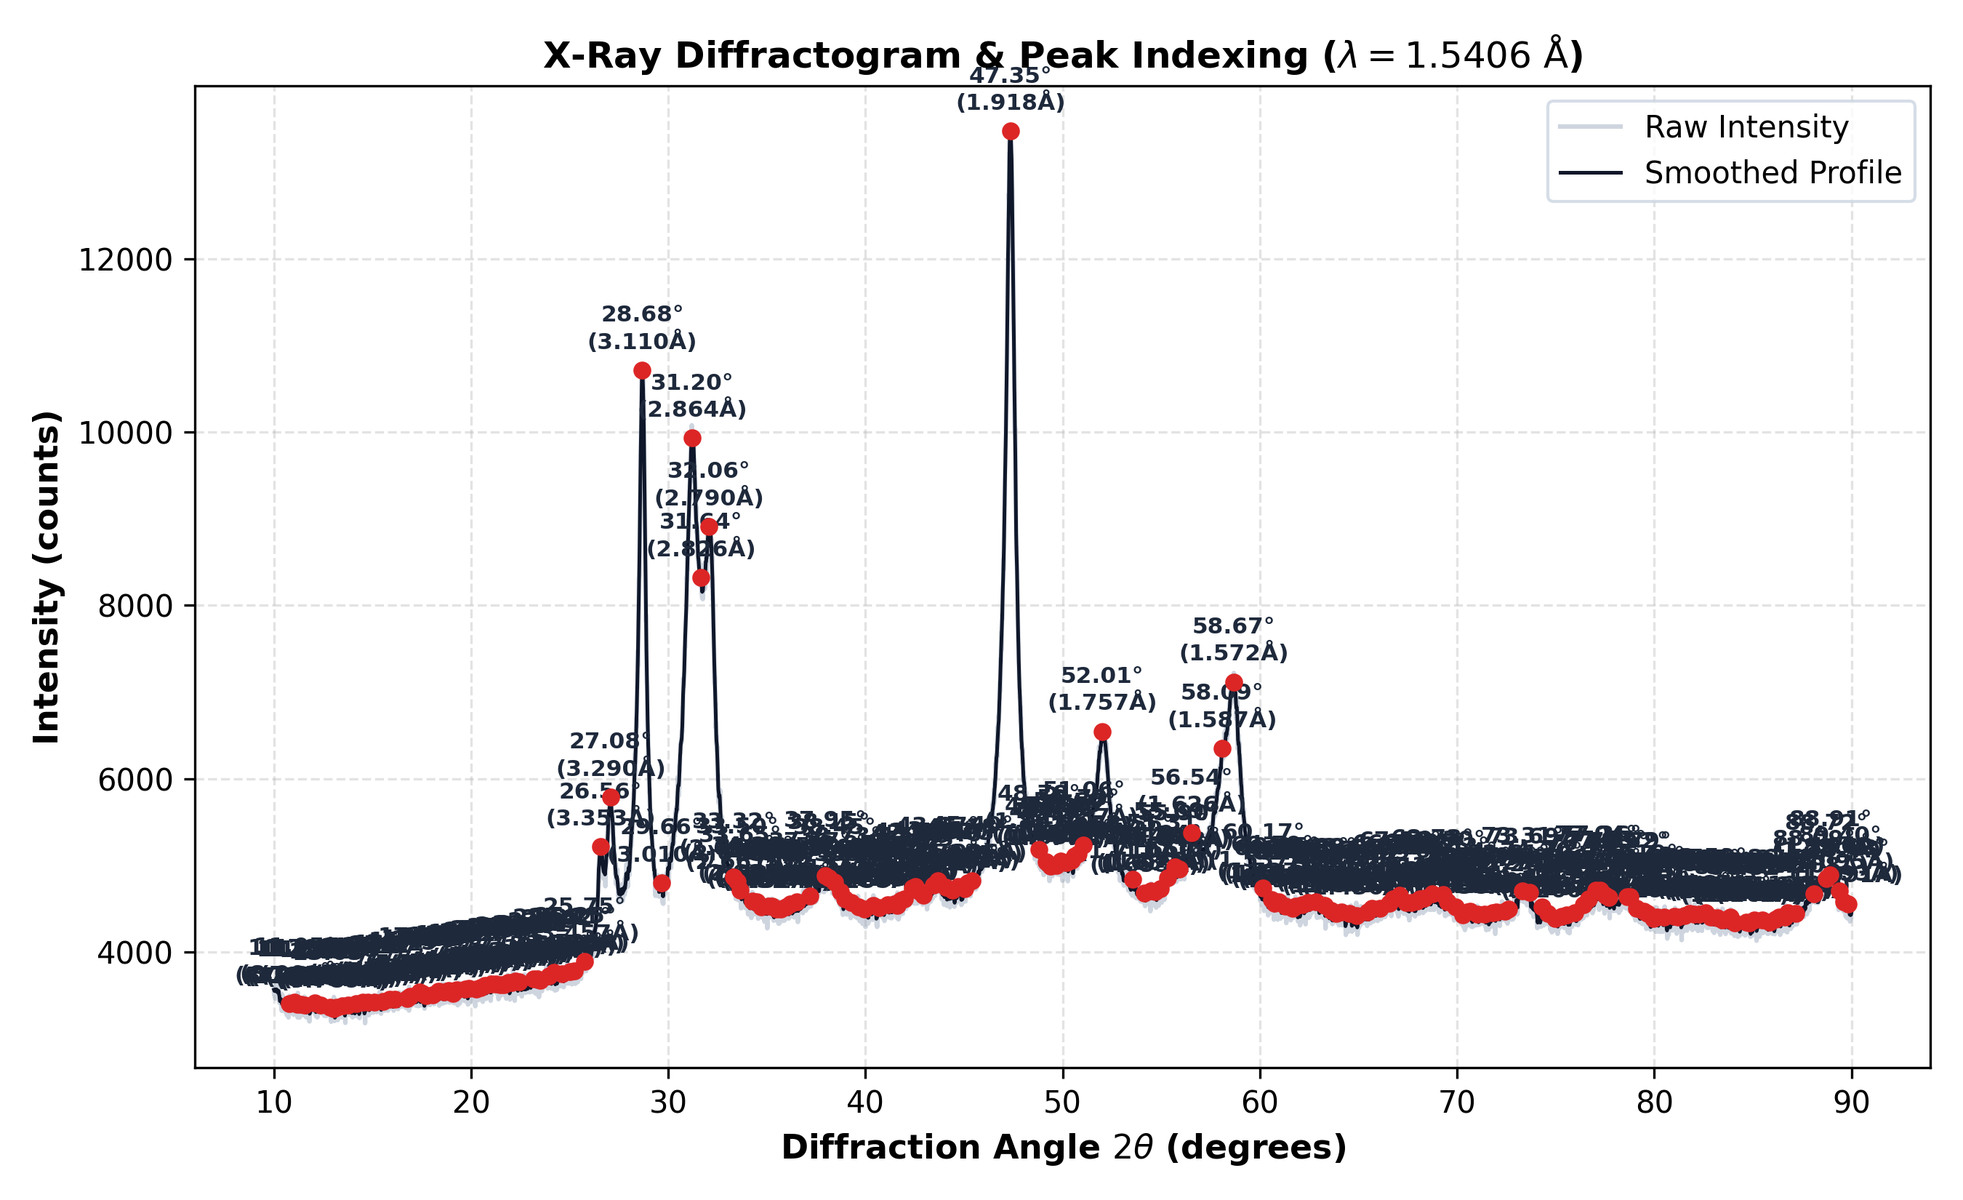
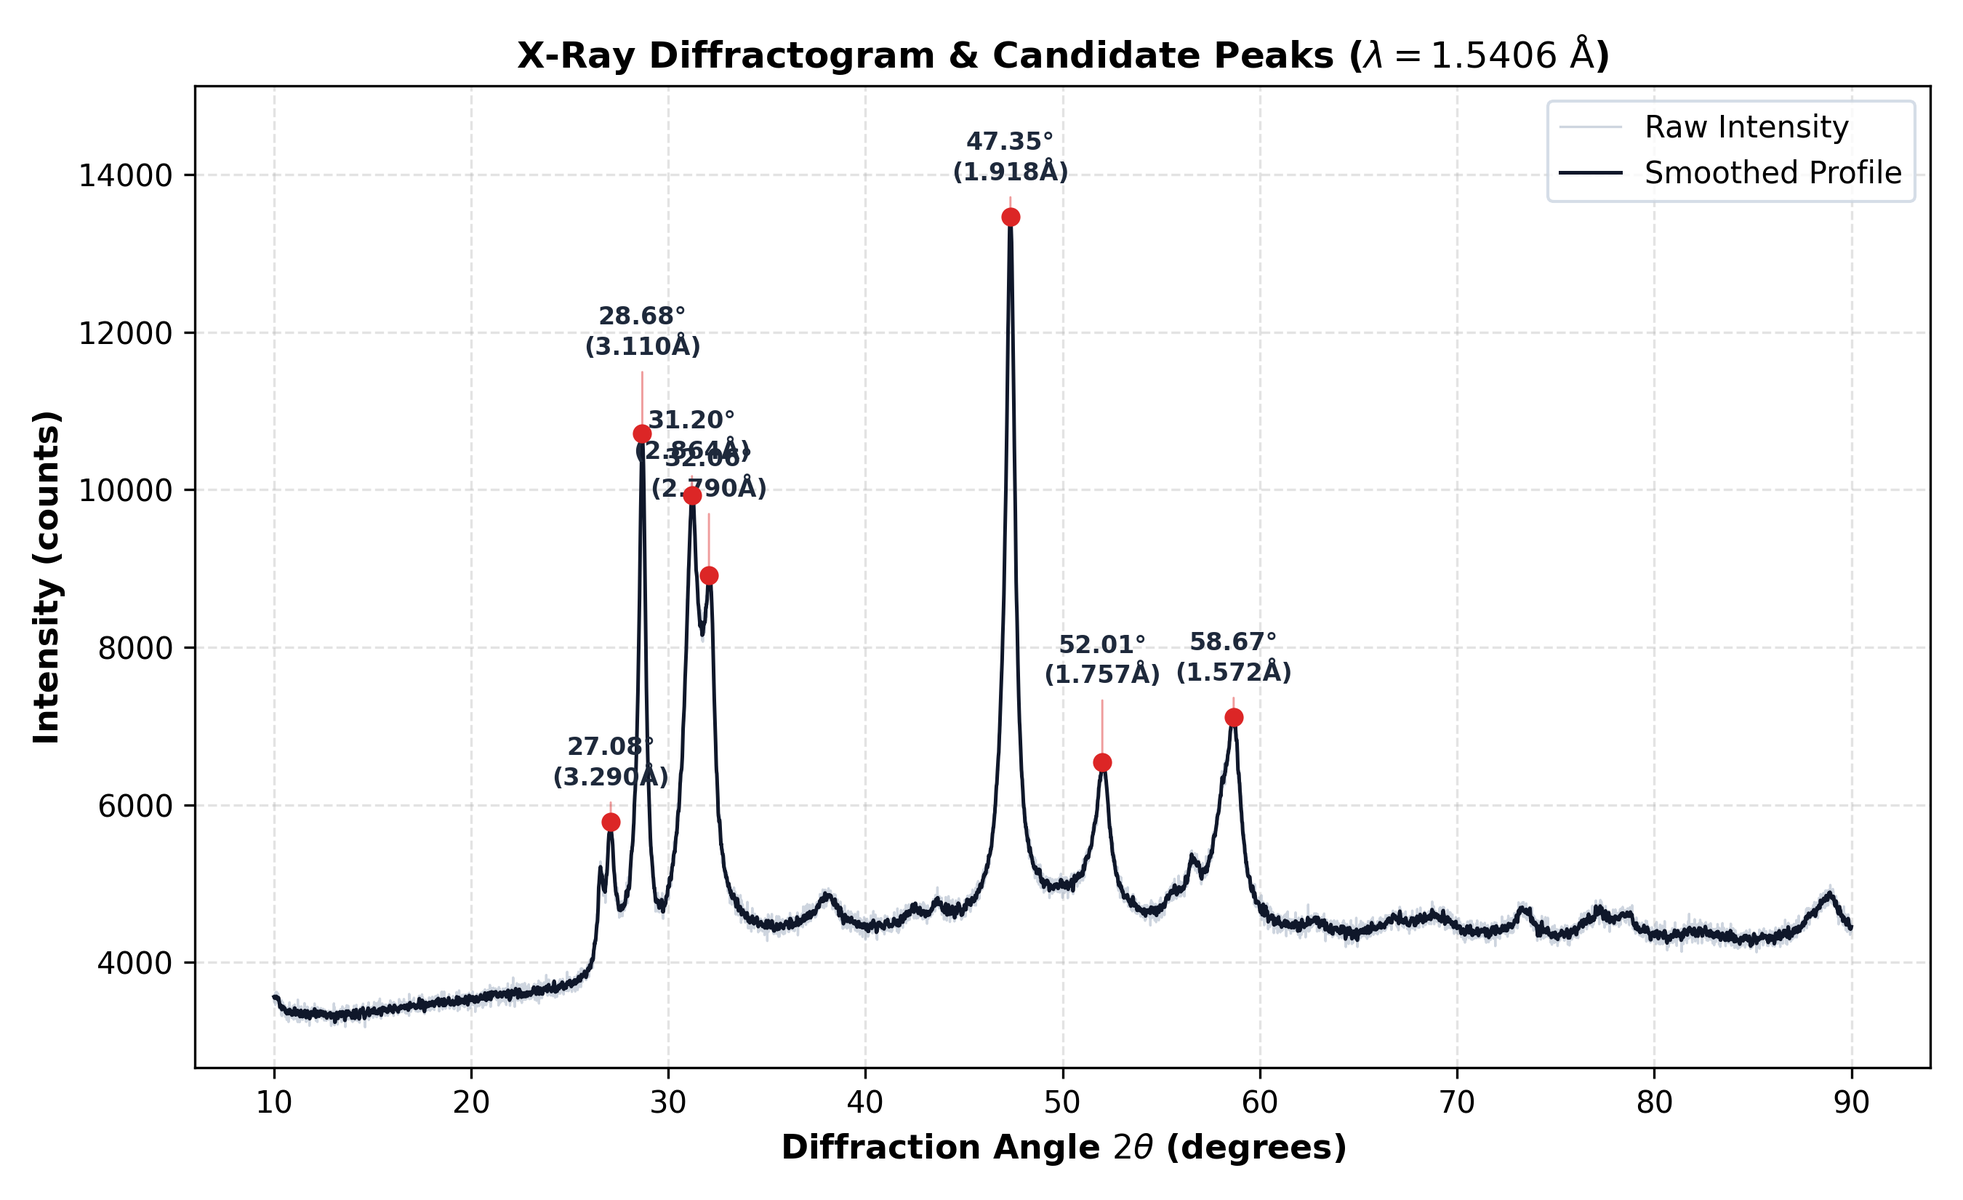
Add files via upload

diff --git a/xrd_analyzer.py b/xrd_analyzer.py
@@ -2,8 +2,8 @@
 XRD Bragg Analyzer
 ==================
 A lightweight scientific computing toolkit for X-ray diffraction (XRD) data processing,
-automated peak finding, Bragg's Law interplanar lattice spacing (d-spacing) calculation,
-and crystallographic phase analysis.
+candidate peak detection, Bragg's Law interplanar lattice spacing (d-spacing) calculation,
+and crystallographic profile visualization.
 
 Author: Ye Xu (github.com/xuexuennn-dev)
 License: MIT
@@ -96,14 +96,17 @@ def load_xrd_data(filepath):
     return parse_ascii_xrd(filepath)
 
 
-def analyze_xrd(two_theta, intensity, wavelength=1.5406, prominence=50.0, distance=15, smooth=True):
+def analyze_xrd(two_theta, intensity, wavelength=1.5406, prominence=None, distance=20, smooth=True):
     """
-    Execute automated XRD processing pipeline:
+    Execute XRD processing pipeline:
       1. Noise smoothing with Savitzky-Golay filter
-      2. Peak detection via scipy.signal.find_peaks
+      2. Peak detection via scipy.signal.find_peaks (adaptive or user-specified prominence)
       3. d-spacing calculation using Bragg's Law
-      4. Relative intensity (I/I0) calculation
+      4. Net relative intensity (I/I0) calculation
     """
+    intensity = np.array(intensity, dtype=float)
+    two_theta = np.array(two_theta, dtype=float)
+
     if smooth and len(intensity) > 15:
         # Window length 11, polynomial order 3
         smoothed_intensity = savgol_filter(intensity, window_length=11, polyorder=3)
@@ -111,10 +114,18 @@ def analyze_xrd(two_theta, intensity, wavelength=1.5406, prominence=50.0, distan
     else:
         smoothed_intensity = intensity
 
+    # Adaptive prominence if not explicitly specified:
+    # 5% of dynamic range (max - min) of smoothed intensity, minimum 20.0
+    dynamic_range = float(np.max(smoothed_intensity) - np.min(smoothed_intensity))
+    if prominence is None:
+        effective_prominence = max(20.0, 0.05 * dynamic_range)
+    else:
+        effective_prominence = float(prominence)
+
     # Peak detection
-    peaks, properties = find_peaks(
+    peaks, _ = find_peaks(
         smoothed_intensity,
-        prominence=prominence,
+        prominence=effective_prominence,
         distance=distance
     )
 
@@ -122,8 +133,11 @@ def analyze_xrd(two_theta, intensity, wavelength=1.5406, prominence=50.0, distan
     peak_intensity = smoothed_intensity[peaks]
     d_spacings = calculate_d_spacing(peak_2theta, wavelength=wavelength)
 
-    max_intensity = np.max(peak_intensity) if len(peak_intensity) > 0 else 1.0
-    relative_intensity = (peak_intensity / max_intensity) * 100.0
+    # Net relative intensity: subtract baseline minimum to reflect true peak signal
+    baseline = float(np.min(smoothed_intensity))
+    net_intensity = peak_intensity - baseline
+    max_net = float(np.max(net_intensity)) if len(net_intensity) > 0 and np.max(net_intensity) > 0 else 1.0
+    relative_intensity = (net_intensity / max_net) * 100.0
 
     peak_records = []
     for tt, d, counts, rel_i in zip(peak_2theta, d_spacings, peak_intensity, relative_intensity):
@@ -135,54 +149,91 @@ def analyze_xrd(two_theta, intensity, wavelength=1.5406, prominence=50.0, distan
         })
 
     return {
+        'two_theta': two_theta,
+        'raw_intensity': intensity,
         'smoothed_intensity': smoothed_intensity,
         'peaks': peaks,
-        'peak_records': peak_records
+        'peak_records': peak_records,
+        'prominence_used': effective_prominence
     }
 
 
-def plot_diffractogram(two_theta, raw_intensity, smoothed_intensity, peak_records, output_image="xrd_plot.png"):
+def plot_diffractogram(two_theta, raw_intensity, smoothed_intensity, peak_records, output_image="xrd_plot.png", max_labeled_peaks=10):
     """
-    Generate publication-ready XRD diffractogram with peak annotations.
+    Generate publication-ready XRD diffractogram with clear, non-overlapping peak annotations.
     """
     plt.figure(figsize=(9, 5.5), dpi=300)
-    plt.plot(two_theta, raw_intensity, color='#94a3b8', alpha=0.45, label='Raw Intensity')
+    plt.plot(two_theta, raw_intensity, color='#94a3b8', alpha=0.45, linewidth=0.8, label='Raw Intensity')
     plt.plot(two_theta, smoothed_intensity, color='#0f172a', linewidth=1.2, label='Smoothed Profile')
 
-    # Annotate prominent peaks
-    for rec in peak_records:
+    # Filter candidate peaks for annotation to prevent clutter:
+    # Select peaks with relative intensity >= 15%, up to max_labeled_peaks
+    annotated_peaks = [rec for rec in peak_records if rec['relative_intensity_pct'] >= 15.0]
+    if len(annotated_peaks) > max_labeled_peaks:
+        annotated_peaks = sorted(annotated_peaks, key=lambda x: x['relative_intensity_pct'], reverse=True)[:max_labeled_peaks]
+    # Re-sort by 2theta for consistent left-to-right presentation
+    annotated_peaks = sorted(annotated_peaks, key=lambda x: x['2theta_deg'])
+
+    y_max = float(np.max(raw_intensity))
+    y_min = float(np.min(raw_intensity))
+    y_range = y_max - y_min if y_max > y_min else 1.0
+
+    for i, rec in enumerate(annotated_peaks):
         tt = rec['2theta_deg']
         d = rec['d_spacing_A']
         inte = rec['intensity']
-        rel = rec['relative_intensity_pct']
         
-        if rel >= 10.0:  # Only label peaks with >=10% relative intensity to prevent clutter
-            plt.scatter(tt, inte, color='#dc2626', s=24, zorder=5)
-            plt.annotate(
-                f"{tt:.2f}°\n({d:.3f}Å)",
-                xy=(tt, inte),
-                xytext=(0, 7),
-                textcoords="offset points",
-                ha='center',
-                fontsize=7.5,
-                color='#1e293b',
-                weight='bold'
-            )
+        # Stagger label heights to avoid overlap
+        offset_y = 12 if (i % 2 == 0) else 26
+        
+        plt.scatter(tt, inte, color='#dc2626', s=28, zorder=5)
+        plt.annotate(
+            f"{tt:.2f}°\n({d:.3f}Å)",
+            xy=(tt, inte),
+            xytext=(0, offset_y),
+            textcoords="offset points",
+            ha='center',
+            fontsize=8,
+            color='#1e293b',
+            weight='bold',
+            arrowprops=dict(arrowstyle="-", color='#dc2626', alpha=0.45, lw=0.7)
+        )
 
     plt.xlabel(r'Diffraction Angle $2\theta$ (degrees)', fontsize=11, fontweight='bold')
     plt.ylabel('Intensity (counts)', fontsize=11, fontweight='bold')
-    plt.title(r'X-Ray Diffractogram & Peak Indexing ($\lambda = 1.5406\ \mathrm{\AA}$)', fontsize=12, fontweight='bold')
+    plt.title(r'X-Ray Diffractogram & Candidate Peaks ($\lambda = 1.5406\ \mathrm{\AA}$)', fontsize=12, fontweight='bold')
     plt.legend(frameon=True, facecolor='#ffffff', edgecolor='#cbd5e1')
     plt.grid(True, linestyle='--', alpha=0.35)
+    plt.ylim(y_min - 0.05 * y_range, y_max + 0.16 * y_range)
     plt.tight_layout()
     plt.savefig(output_image)
     plt.close()
     print(f"[+] Diffractogram exported: {output_image}")
 
 
+def plot_xrd(results_or_two_theta, *args, save_path="xrd_analysis_plot.png", **kwargs):
+    """
+    Convenient plotting function supporting both results dict and raw array inputs:
+      Usage 1: plot_xrd(results, save_path="plot.png")
+      Usage 2: plot_xrd(two_theta, raw_intensity, smoothed_intensity, peak_records, output_image="plot.png")
+    """
+    if isinstance(results_or_two_theta, dict):
+        res = results_or_two_theta
+        plot_diffractogram(
+            two_theta=res['two_theta'],
+            raw_intensity=res['raw_intensity'],
+            smoothed_intensity=res['smoothed_intensity'],
+            peak_records=res['peak_records'],
+            output_image=kwargs.get('output_image', save_path),
+            max_labeled_peaks=kwargs.get('max_labeled_peaks', 10)
+        )
+    else:
+        plot_diffractogram(results_or_two_theta, *args, output_image=save_path, **kwargs)
+
+
 def print_summary_table(peak_records):
     """
-    Print formatted peak indexing summary.
+    Print formatted candidate peak summary.
     """
     print("\n" + "=" * 65)
     print(f"{'Peak #':<8}{'2-Theta (°)':<15}{'d-spacing (Å)':<18}{'Counts':<12}{'I/I0 (%)':<10}")
@@ -193,13 +244,13 @@ def print_summary_table(peak_records):
 
 
 def main():
-    parser = argparse.ArgumentParser(description="XRD Bragg Analyzer - Automated Peak Indexing & d-spacing Calculator")
+    parser = argparse.ArgumentParser(description="XRD Bragg Analyzer - Candidate Peak Detection & d-spacing Calculator")
     parser.add_argument("input_file", help="Path to XRD data file (.raw binary or .txt/.csv ASCII)")
-    parser.add_argument("--wavelength", type=float, default=1.5406, help="Radiation wavelength in Angstroms (default: 1.5406 A)")
-    parser.add_argument("--prominence", type=float, default=50.0, help="Peak prominence threshold (default: 50.0)")
-    parser.add_argument("--distance", type=int, default=15, help="Minimum peak distance in points (default: 15)")
-    parser.add_argument("--out-plot", default="xrd_analysis_plot.png", help="Output plot filename")
-    parser.add_argument("--out-txt", default=None, help="Optional text export for indexed peaks")
+    parser.add_argument("--wavelength", "-w", type=float, default=1.5406, help="Radiation wavelength in Angstroms (default: 1.5406 A)")
+    parser.add_argument("--prominence", "-p", type=float, default=None, help="Peak prominence threshold (default: adaptive 5%% of dynamic range)")
+    parser.add_argument("--distance", "-d", type=int, default=20, help="Minimum peak distance in points (default: 20)")
+    parser.add_argument("--output", "-o", "--out-plot", dest="out_plot", default="xrd_analysis_plot.png", help="Output plot filename")
+    parser.add_argument("--out-txt", default=None, help="Optional text export for candidate peaks")
 
     args = parser.parse_args()
 
@@ -219,14 +270,10 @@ def main():
         distance=args.distance
     )
 
+    print(f"[+] Detected {len(results['peak_records'])} candidate peaks (adaptive prominence = {results['prominence_used']:.1f})")
     print_summary_table(results['peak_records'])
-    plot_diffractogram(
-        two_theta,
-        intensity,
-        results['smoothed_intensity'],
-        results['peak_records'],
-        output_image=args.out_plot
-    )
+    
+    plot_xrd(results, save_path=args.out_plot)
 
     if args.out_txt:
         with open(args.out_txt, 'w', encoding='utf-8') as f:

diff --git a/README.md b/README.md
@@ -4,50 +4,67 @@
 [![License: MIT](https://img.shields.io/badge/License-MIT-green.svg)](https://opensource.org/licenses/MIT)
 [![Scientific Computing](https://img.shields.io/badge/Stack-NumPy%20%7C%20SciPy%20%7C%20Matplotlib-orange.svg)](https://scipy.org/)
 
-A modular scientific computing toolkit tailored for materials science researchers, crystallographers, and automated LLM-assisted laboratory pipelines. It automates raw X-ray diffractometer data ingestion (including proprietary Rigaku binary formats and columnar ASCII datasets), applies Savitzky-Golay noise filtering, computes interplanar lattice spacings ($d$-spacings) using Bragg's Law, and outputs publication-ready crystallographic peak indexing profiles.
+A focused Python computing toolkit for X-ray diffraction (XRD) signal processing. It reads raw diffractometer data (including proprietary Rigaku binary `.raw` files and columnar ASCII formats), applies Savitzky-Golay smoothing, detects candidate peaks via adaptive prominence, calculates interplanar lattice spacings ($d$-spacings) using Bragg's Law, and generates publication-grade plots for manual phase interpretation.
+
+> [!NOTE]
+> This toolkit focuses on data preprocessing, candidate peak extraction, and lattice spacing calculation. It does not perform automated crystallographic phase identification or $(hkl)$ Miller index assignments, which require manual matching against reference databases (e.g., COD/ICDD cards).
 
 ---
 
-## 🔬 Core Scientific Principles
+## 🔬 Scientific Principles
 
-### 1. Bragg's Law Formulation
-The fundamental relationship governing constructive interference from crystallographic lattice planes is defined by **Bragg's Law**:
+### 1. Bragg's Law
+Constructive interference from parallel crystal lattice planes is calculated using **Bragg's Law**:
 
 $$n\lambda = 2d \sin\theta \quad \Longrightarrow \quad d = \frac{\lambda}{2 \sin\theta}$$
 
 Where:
 * $d$: Interplanar lattice spacing ($\text{Å}$)
 * $\lambda$: Incident X-ray radiation wavelength (Default: $\text{Cu } K\alpha = 1.54060\text{ Å}$)
-* $\theta$: Bragg diffraction angle ($\text{rad}$, derived from experimental $2\theta$ scan values)
-* $n$: Order of reflection (typically $n = 1$)
+* $\theta$: Bragg angle ($\text{rad}$, half of the measured detector angle $2\theta$)
+* $n$: Order of reflection (assumed $n = 1$)
 
-### 2. Digital Filtering & Peak Detection
-Raw diffractometer scans often exhibit high-frequency detector noise and instrument-specific background scattering. This toolkit implements:
-* **Savitzky-Golay Digital Filter**: Local polynomial convolution that preserves higher-moment peak features (FWHM, skewness, amplitude) without introducing artificial peak-broadening artifacts.
-* **Topological Prominence Finding**: Dynamically identifies genuine diffraction reflections against local background baselines using relative amplitude thresholds and minimum angular distances.
+### 2. Signal Smoothing & Peak Detection
+* **Savitzky-Golay Filter**: Convolutional polynomial smoothing ($k=3, w=11$) reduces high-frequency detector noise while preserving peak height and position.
+* **Adaptive Prominence**: Automatically sets peak prominence threshold to 5% of the intensity dynamic range ($\max - \min$), avoiding spurious noise detection on high-baseline datasets.
+* **Net Relative Intensity**: Measures peak height above local background baseline ($I - I_{\min}$) normalized against the maximum peak ($I / I_{\max} \times 100\%$).
 
 ---
 
 ## 🚀 Key Features
 
-* **Dual-Mode Diffractometer Parser**:
-  * Native byte-level extraction for Rigaku binary diffractometer files (`.raw` header offsets and float32 arrays).
-  * Robust tabular parser for standard 2-column delimited text/ASCII exports (`.xy`, `.txt`, `.csv`, `.dat`).
-* **Automated Peak Indexing**:
-  * Precision angular location of $2\theta$ reflection centroids.
-  * Instantaneous conversion of observed $2\theta$ values into crystallographic $d$-spacing ($\text{Å}$).
-  * Calculation of normalized relative intensities ($I/I_{\max} \times 100\%$).
-* **Publication-Quality Visualization**:
-  * Generates vector-grade figures featuring raw diffraction profiles, smoothed envelopes, and automatically annotated peak indices ($2\theta$ and $d$-values).
-* **CLI & Python API**: Usable both as an importable module in scientific scripts or as a standalone terminal utility.
+* **Rigaku Binary & ASCII Input**:
+  * Native byte parser extracting angle boundaries and float32 count arrays from Rigaku `.raw` files.
+  * Delimited text parser for ASCII formats (`.xy`, `.txt`, `.csv`, `.dat`).
+* **Candidate Peak Extraction**:
+  * Angular centroid location ($2\theta$).
+  * Interplanar lattice spacing $d$ ($\text{Å}$).
+  * Net relative intensity calculation.
+* **Visual Diffractogram Generation**:
+  * Displays raw counts, smoothed curve, and labeled candidate peaks without visual overlap.
+* **Dual Interface**: Full CLI utility and modular Python functions.
 
 ---
 
-## 📊 Sample Visualization
+## 📊 Sample Diffractogram
 
-Below is an automated analysis generated from an experimental diffraction scan:
+Sample output generated from `sample_xrd_data.txt` (8,001 data points, $2\theta = 10^\circ \text{--} 90^\circ$):
 
 ![XRD Analysis Example](xrd_example.png)
+
+```text
+=================================================================
+Peak #  2-Theta (°)    d-spacing (Å)     Counts      I/I0 (%)  
+-----------------------------------------------------------------
+1       27.080         3.2901            5787.9      24.9      
+2       28.680         3.1101            10712.4     73.0      
+3       31.200         2.8644            9929.4      65.4      
+4       32.060         2.7895            8910.9      55.4      
+5       47.350         1.9183            13470.0     100.0     
+6       52.010         1.7569            6544.9      32.3      
+7       58.670         1.5723            7115.6      37.9      
+=================================================================
+```
 
 ---
 
@@ -65,46 +82,41 @@ pip install -r requirements.txt
 
 ### Command Line Interface (CLI)
 
-Run an automated peak search and generate an annotated plot:
-
 ```bash
-python xrd_analyzer.py sample_xrd_data.txt --wavelength 1.5406 --prominence 50 --output result.png
+# Basic run with automatic adaptive prominence:
+python xrd_analyzer.py sample_xrd_data.txt --output xrd_analysis.png
+
+# Custom wavelength and export candidate peak table:
+python xrd_analyzer.py sample_xrd_data.txt -w 1.5406 -o analysis.png --out-txt peaks.txt
 ```
 
-#### CLI Arguments:
-* `input_file`: Path to raw diffractometer data file (`.txt`, `.xy`, `.csv`, or `.raw`).
-* `--wavelength`, `-w`: X-ray wavelength in $\text{Å}$ (default: `1.5406` for $\text{Cu } K\alpha$).
-* `--prominence`, `-p`: Minimum peak prominence for peak detection thresholding (default: `50.0`).
-* `--distance`, `-d`: Minimum angular separation (in data points) between adjacent peaks (default: `15`).
-* `--no-smooth`: Disable Savitzky-Golay filtering.
-* `--output`, `-o`: Filepath to save the resulting figure (e.g. `analysis.png`).
+#### Arguments:
+* `input_file`: Path to raw XRD file (`.raw`, `.txt`, `.xy`, `.csv`).
+* `--wavelength`, `-w`: Incident wavelength in $\text{Å}$ (default: `1.5406`).
+* `--prominence`, `-p`: Manual prominence threshold (default: adaptive 5% of dynamic range).
+* `--distance`, `-d`: Minimum angular separation in data points (default: `20`).
+* `--output`, `-o`, `--out-plot`: Path to save exported plot (default: `xrd_analysis_plot.png`).
+* `--out-txt`: Optional path to export TSV peak table.
 
 ---
 
 ### Python API
 
-Integrate directly into automated data pipelines:
-
 ```python
 from xrd_analyzer import load_xrd_data, analyze_xrd, plot_xrd
 
-# 1. Load data (ASCII or Rigaku binary)
+# 1. Load data
 two_theta, intensity = load_xrd_data("sample_xrd_data.txt")
 
-# 2. Execute peak indexing and Bragg calculations
-results = analyze_xrd(
-    two_theta, 
-    intensity, 
-    wavelength=1.5406, 
-    prominence=50.0
-)
+# 2. Extract candidate peaks and calculate d-spacings
+results = analyze_xrd(two_theta, intensity, wavelength=1.5406)
 
-# 3. Inspect detected crystallographic reflections
-for peak in results['peaks']:
-    print(f"2θ: {peak['2theta']:.3f}° | d-spacing: {peak['d_spacing']:.4f} Å | Relative Intensity: {peak['rel_intensity']:.1f}%")
+# 3. Print extracted peaks
+for p in results['peak_records']:
+    print(f"2θ: {p['2theta_deg']:.3f}° | d: {p['d_spacing_A']:.4f} Å | Relative: {p['relative_intensity_pct']:.1f}%")
 
-# 4. Generate annotated visualization
-plot_xrd(results, save_path="xrd_indexed.png")
+# 4. Generate annotated plot
+plot_xrd(results, save_path="xrd_result.png")
 ```
 
 ---
@@ -113,18 +125,14 @@ plot_xrd(results, save_path="xrd_indexed.png")
 
 ```
 xrd-bragg-analyzer/
-├── sample_xrd_data.txt    # Representative experimental diffractometer scan
-├── requirements.txt       # Project runtime dependencies (NumPy, SciPy, Matplotlib)
-├── xrd_analyzer.py        # Core processing engine, binary parser & CLI
-├── xrd_example.png        # Sample rendered crystallographic analysis
-└── README.md              # Technical documentation & usage guide
+├── sample_xrd_data.txt    # Experimental diffractometer scan (8001 data points)
+├── requirements.txt       # Dependencies (numpy, scipy, matplotlib)
+├── xrd_analyzer.py        # Core parser, peak detection & visualization CLI
+├── xrd_example.png        # Sample rendered plot
+└── README.md              # Technical documentation
 ```
 
 ---
-
-## 📄 License
-
-This project is licensed under the MIT License - see the LICENSE file for details.
 
 ## 👤 Author
 
